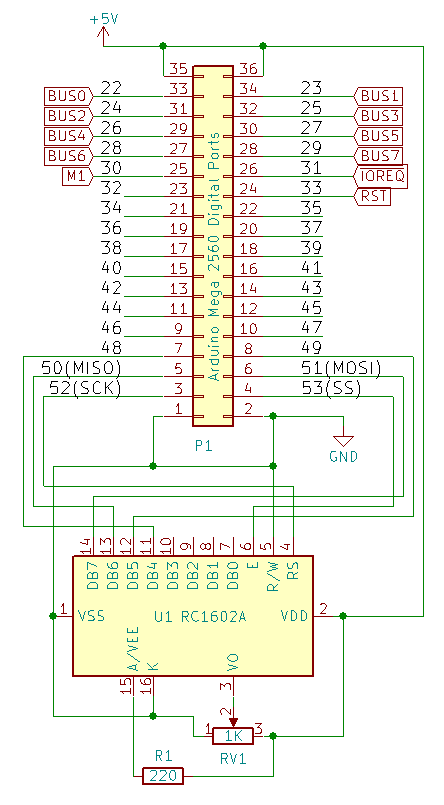
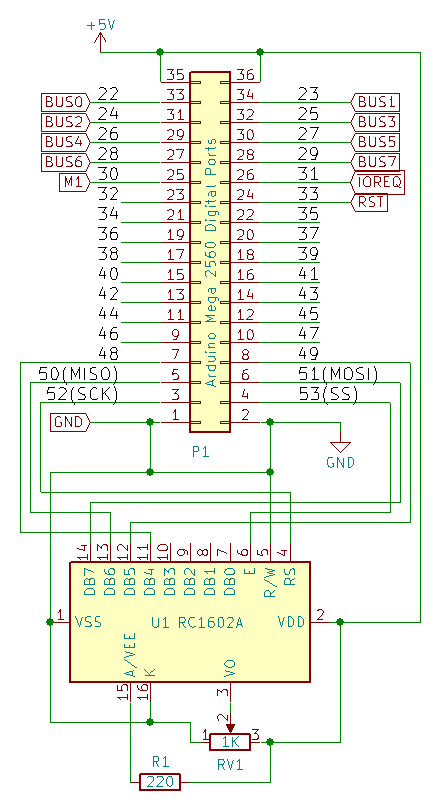
mini screen for z80

Changed region(s): [[0.0295, 0.0311, 0.9728, 0.9963], [0.2063, 0.0, 0.2653, 0.0623]]

diff --git a/content/posts/mini-screen-for-z80.md b/content/posts/mini-screen-for-z80.md
@@ -1,0 +1,119 @@
+---
+title: "Mini ekran dla Z80"
+date: 2020-05-11T19:44:45+02:00
+draft: false
+dziedziny:
+  - Z80PC
+zagadnienia:
+  - Retro
+  - Arduino
+---
+
+Retro komputer odprawiający swoją magię w czeluściach scalaków bez wizualnej reprezentacji to nie najefektywniejsza rozrywka. Wykonam więc PoC z Arduino Micro i niewielkiego ekranu OLED *kartę graficzną* i ekran.
+
+<!--more-->
+
+Jak Z80 będzie wyświetlał dane na ekranie? Wymyśliłem sobie, że procesor będzie komunikował się z "kartą graficzną" poprzez port - przyjmijmy na ten moment - **0x80**. Instrukcjami ```out 0x80, <value>``` będę przekazywał wartość *\<value\>* do prowizorycznej karty graficznej, która zadba o wyświetlenie jej na OLEDzie. 
+
+Od strony CPU wygląda to tak, że Z80 ustawia na dolnym bajcie pamięci adres portu - 0x80, na szynie danych podana wartość i ustawia wyjście IOREQ (żądanie operacji I/O) w stan niski. Na ten moment nie mam innych urządzeń zatem dla prostoty i przetestowania PoC pominę logikę sprawdzania czy adres naprawdę wynosi 0x80. Zakładam w tym PoC, że każde żądanie I/O dotyczy wyświetlenia znaku na ekranie. Zatem piny Arduino łączę z szyną danych, IOREQ i RST by czyścić ekran przy resecie komputera. Połączenia pokazane są na [Rys. 1](#oled-display).
+
+![oled-display](/Z80/OledDisplay/oled_display.png "Rys. 1) Schemat połączenia wyświetlacza, arduino i komputera")
+
+Komunikacja z oledem odbywa się po protokole I2C (wyprowadzenia SDA i SCL). Arduino posiada bibliotekę i przykład do obsługi takiego wyświetlacza. Należy zaimportować **Adafruit_SSD1306** i **Adafruit_GFX**. W przykładach Adafruit_SSD1306 znajdziemy kod dla wyświetlaczy 128x32 i 128x64 po I2C lub SPI. Przy I2C uwaga na adres urządzenia slave - u mnie 0x3C, niektóre urządzenia mogą mieć chyba 0x3D. Jest to wartość predefiniowana dla urządzenia. Arduino IDE w przykładach posiada *Wire/i2c_scanner.ino*, który wgrany i odpalony wypisze na terminal znalezione urządzenia i ich adresy.
+
+Szyna zajmuje piny 4-6 i 8-12. Pin 7 specjalnie *omijam* i łączę z wyjściem IOREQ z Z80. Na stronach Arduino w dokumentacji funkcji [```attachInterrupt()```][1] możemy znaleźć informację, które piny w którym modelu arduino mogą zostać zastosowane do zaimplementowania zewnętrznego przerwania. Dzięki temu zamiast w pętli głównej sprawdzać cyklicznie IOREQ, mogę podać która funkcja ma się wykonać kiedy przerwanie (w tym wypadku stan niski na pinie 7) się pojawi. Arduino przerwie wtedy wykonanie głównej pętli i wykona kod podanej funkcji. Dzięki temu nie martwię się czy czas na wykonanie głównego kodu będzie na tyle długi bym przegapił jakieś żądanie I/O.
+
+Przyszedł czas na kod dla mikrokontrolera. Obsługę można podzielić na 2 części. Wykonywanie zarejestrowanej obsługi przerwania zewnętrznego gdy na pinie 7-mym pojawi się zbocze opadające. Podczas tego zdarzenia odczytujemy dane z szyny i zapisuje je do globalnego bufora (zmienna ```data```). Jest nim tablica 8 znakowa dla której mamy index ostatniego elementu - przesuwany przez obsługę przerwania i index pierwszego niewyświetlonego elementu przesuwany przez pętlę główną. To pętla główna odpowiada za wyświetlanie znaków na wyświetlaczu. Chcemy by obsługa przerwania była jak najlżejsza, dodatkowo niektóre funkcje nie są dostępne podczas przerwania. Dlatego nadchodzące znaki zapisujemy w buforze i pozwalamy pętli głównej gonić "peleton" pomiędzy przerwaniami.
+
+```c
+// oled_display.ino
+#include <SPI.h>
+#include <Wire.h>
+#include <Adafruit_GFX.h>
+#include <Adafruit_SSD1306.h>
+
+#define SCREEN_WIDTH 128 // OLED display width, in pixels
+#define SCREEN_HEIGHT 64 // OLED display height, in pixels
+
+// Declaration for an SSD1306 display connected to I2C (SDA, SCL pins)
+#define OLED_RESET     -1 // Reset pin # (or -1 if sharing Arduino reset pin)
+Adafruit_SSD1306 display(SCREEN_WIDTH, SCREEN_HEIGHT, &Wire, OLED_RESET);
+
+#define D0 4
+#define D1 5
+#define D2 6
+#define IOREQ 7
+#define D3 8
+#define D4 9
+#define D5 10
+#define D6 11
+#define D7 12
+
+volatile uint8_t data[8];
+volatile uint8_t eInd = 0;
+uint8_t bInd = 0;
+
+void interruptHandler() {
+  uint8_t val = 0;
+    for(uint8_t pin = D0; pin <= D7; ++pin) {
+      if(pin == IOREQ)
+        continue;
+      val = (val << 1)|digitalRead(pin);
+    }
+    data[eInd++] = val;
+    if(eInd >= 8)
+    eInd = 0;
+}
+
+void printData(uint8_t data) {
+  display.write(data);
+  display.display();
+}
+
+void setup() {
+  pinMode(IOREQ, INPUT_PULLUP);
+
+  for(uint8_t pin = D0; pin <= D7; ++pin) {
+    if(pin == IOREQ)
+      continue;
+    pinMode(pin, INPUT);
+  }
+  // SSD1306_SWITCHCAPVCC = generate display voltage from 3.3V internally
+  if(!display.begin(SSD1306_SWITCHCAPVCC, 0x3C)) { // Address 0x3C for 128x64
+    for(;;); // Don't proceed, loop forever
+  }
+  display.clearDisplay();
+  display.display();
+  display.setTextSize(1);
+  display.setTextColor(SSD1306_WHITE);
+  display.setCursor(0, 0);
+  display.cp437(true);
+
+  attachInterrupt(digitalPinToInterrupt(IOREQ), interruptHandler, FALLING);
+  display.write("?> ");
+  display.display();
+}
+
+void loop() {
+  if(bInd == eInd) 
+    return;
+  
+  printData(data[bInd++]);
+  if(bInd >= 8)
+    bInd = 0;
+}
+```
+
+Układ pozwala mi wyświetlić 1 ekran (brak zaimplementowanego przewijania). Jest trochę zbyt mały bym chciał docelowo go zastosować w mojej retro maszynie, dlatego nie będę go rozwijał. Pozwolił mi zweryfikować, że komputer działa i potrafi wypisać "HELL". Docelowo nawet do pierwszej wersji szukam czegoś odrobinę większego: 320x280, może 640x480 i kolorowego, by móc zaimplementować również tryb graficzny.
+
+A jeśli chodzi o konstrukcję "poważnej" karty graficznej obsługującej ekran VGA to polecam fajny filmik Bena Eatera [The world's worst video card?][2] i [World's worst video card? The exciting conclusion][3].
+
+
+## Linki
+ - [[1]] [Arduino.cc: attachInterrupt()][1]
+ - [[2]] [Ben Eater: Najgorsza na świecie karta graficzna?][2]
+ - [[3]] [Ben Eater: Najgorsza na świecie karta graficzna? Ekscytująca konkluzja.][3]
+
+[1]: https://www.arduino.cc/reference/en/language/functions/external-interrupts/attachinterrupt/
+ [2]: https://www.youtube.com/watch?v=l7rce6IQDWs&t=8s
+ [3]: https://www.youtube.com/watch?v=uqY3FMuMuRo
